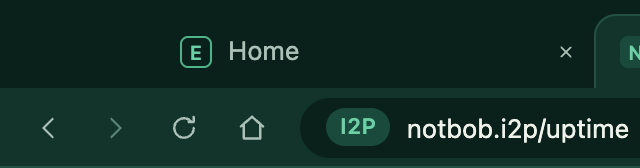
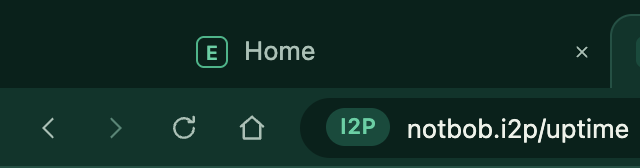
fix(ui): tab strip inset from chrome_insets, aligned with the back button

diff --git a/src/ui/toolbar/layout.ts b/src/ui/toolbar/layout.ts
@@ -1,6 +1,7 @@
+import type { ChromeInsets } from "../contract.ts";
 import { all, byId } from "../dom.ts";
 import { call, on } from "../ipc.ts";
-import { chromeHeight } from "../lib/chrome-height.ts";
+import { chromeHeight, insetPx } from "../lib/chrome-height.ts";
 
 const POPUPS = ".suggestions, .menu, .tooltip, .router-panel";
 const quiet = (): undefined => undefined;
@@ -31,6 +32,10 @@ function applyPlatform(platform: string): void {
   document.documentElement.dataset.platform = platform;
 }
 
+function applyInsets(insets: ChromeInsets): void {
+  document.documentElement.style.setProperty("--chrome-inset-left", insetPx(insets.left));
+}
+
 function applyFullscreen(fullscreen: boolean): void {
   document.documentElement.toggleAttribute("data-fullscreen", fullscreen);
 }
@@ -46,5 +51,7 @@ export function wireLayout(): void {
   call("platform", {}).then(applyPlatform).catch(quiet);
   on("fullscreen-changed", applyFullscreen).catch(quiet);
   call("window_fullscreen", {}).then(applyFullscreen).catch(quiet);
+  on("chrome-insets-changed", applyInsets).catch(quiet);
+  call("chrome_insets", {}).then(applyInsets).catch(quiet);
   scheduleSync();
 }

diff --git a/src/ui/contract.ts b/src/ui/contract.ts
@@ -56,6 +56,7 @@ export type Settings = {
 
 export type HistoryCursor = { visited: number; id: string };
 export type HistoryQuery = { q?: string; before?: HistoryCursor; limit?: number };
+export type ChromeInsets = { left: number };
 export type Platform = "macos" | "windows" | "linux";
 
 export type BandwidthHistory = { stepSeconds: number; inBps: number[]; outBps: number[] };
@@ -125,6 +126,7 @@ export interface Commands {
   connection_resume: { args: Record<string, never>; result: undefined };
   chrome_set_height: { args: { px: number }; result: undefined };
   platform: { args: Record<string, never>; result: Platform };
+  chrome_insets: { args: Record<string, never>; result: ChromeInsets };
   window_fullscreen: { args: Record<string, never>; result: boolean };
 }
 
@@ -140,6 +142,7 @@ export interface Events {
   toast: Toast;
   "link-hover": { text: string; blocked: boolean };
   "fullscreen-changed": boolean;
+  "chrome-insets-changed": ChromeInsets;
 }
 
 export type CommandName = keyof Commands;

diff --git a/src/ui/lib/chrome-height.test.ts b/src/ui/lib/chrome-height.test.ts
@@ -1,6 +1,12 @@
 import assert from "node:assert/strict";
 import { describe, it } from "node:test";
-import { CHROME_HEIGHT, chromeHeight, FIND_BAR_HEIGHT, POPUP_MARGIN } from "./chrome-height.ts";
+import {
+  CHROME_HEIGHT,
+  chromeHeight,
+  FIND_BAR_HEIGHT,
+  insetPx,
+  POPUP_MARGIN,
+} from "./chrome-height.ts";
 
 describe("chromeHeight", () => {
   it("is the tab strip plus nav row when nothing is open", () => {
@@ -20,5 +26,16 @@ describe("chromeHeight", () => {
       chromeHeight({ findOpen: true, popupBottoms: [90] }),
       CHROME_HEIGHT + FIND_BAR_HEIGHT,
     );
+  });
+});
+
+describe("insetPx", () => {
+  it("rounds the shell's inset to whole pixels", () => {
+    assert.equal(insetPx(86), "86px");
+    assert.equal(insetPx(85.6), "86px");
+  });
+  it("never goes below zero or accepts a broken value", () => {
+    assert.equal(insetPx(-4), "0px");
+    assert.equal(insetPx(Number.NaN), "0px");
   });
 });

diff --git a/src/ui/lib/chrome-height.ts b/src/ui/lib/chrome-height.ts
@@ -7,6 +7,10 @@ export interface ChromeLayout {
   popupBottoms: number[];
 }
 
+export function insetPx(left: number): string {
+  return `${Number.isFinite(left) ? Math.max(0, Math.round(left)) : 0}px`;
+}
+
 export function chromeHeight(layout: ChromeLayout): number {
   const base = CHROME_HEIGHT + (layout.findOpen ? FIND_BAR_HEIGHT : 0);
   const popups = layout.popupBottoms.map((bottom) => Math.ceil(bottom) + POPUP_MARGIN);

diff --git a/src/ui/chrome.css b/src/ui/chrome.css
@@ -25,12 +25,12 @@
   align-items: flex-end;
   gap: var(--space-1);
   height: var(--tabstrip-h);
-  padding: 0 var(--space-2);
+  padding: 0 var(--space-2) 0 max(var(--space-2), var(--chrome-inset-left, 0px));
   background: var(--chrome-strip);
 }
 
-:root[data-platform="macos"]:not([data-fullscreen]) .tabstrip {
-  padding-left: 78px;
+:root[data-fullscreen] .tabstrip {
+  padding-left: var(--space-2);
 }
 
 .tab-drag {

diff --git a/src/ui/mock.ts b/src/ui/mock.ts
@@ -362,6 +362,9 @@ const handlers: Record<CommandName, Handler> = {
   chrome_set_height: () => undefined,
   platform: () => platformFromParams(),
   window_fullscreen: () => params.has("fullscreen"),
+  chrome_insets: () => ({
+    left: platformFromParams() === "macos" && !params.has("fullscreen") ? data.macInsetLeft : 0,
+  }),
   bookmarks_export_file: () => data.exportPath,
 };
 

diff --git a/public/theme-boot.js b/public/theme-boot.js
@@ -8,6 +8,8 @@
     pref = null;
   }
   if (forced.includes(pref)) document.documentElement.setAttribute("data-theme", pref);
-  if (/Mac/.test(window.navigator.userAgent))
+  if (/Mac/.test(window.navigator.userAgent)) {
     document.documentElement.setAttribute("data-platform", "macos");
+    document.documentElement.style.setProperty("--chrome-inset-left", "86px");
+  }
 })();

diff --git a/docs/wiki/browser-ui.md b/docs/wiki/browser-ui.md
@@ -62,6 +62,8 @@ Screenshots: `docs/images/ui/router-panel-{light,dark}.png`, `router-panel-unman
 - `RouterStats.history` (`{ stepSeconds, inBps[], outBps[] }`, which replaces `bandwidthHistory`), `activePeers`, `inboundTunnels` and `outboundTunnels`;
 - `connection_pause()`, `connection_resume()` and `router_control({ action: "restart" | "stop" })`.
 
+The toolbar also uses `chrome_insets() -> { left }` and the `chrome-insets-changed` event. `left` is the space the window controls need (about 86 px on macOS, 0 elsewhere). `theme-boot.js` sets an 86 px fallback on macOS before the first paint, so the tab strip does not jump. The first tab never sits left of the back button's edge, so the two line up on Windows and Linux.
+
 Until the shell implements them, the dev mock (`src/ui/mock.ts`) answers these commands. Add `?managed=0` or `?paused=1` to a page URL to preview those states.
 
 ## Checks

diff --git a/CHANGELOG.md b/CHANGELOG.md
@@ -25,3 +25,4 @@ This project follows [Semantic Versioning](https://semver.org/spec/v2.0.0.html).
 - Release gate accepts checks that run on pull requests only (#39)
 - Sign releases with Sigstore, build the Linux binary repeatably, harden the release profile (#37)
 - Use only the brand palette, enforced by scripts/palette-check.sh (#38)
+- Take the macOS tab inset from the shell; line the first tab up with the back button
